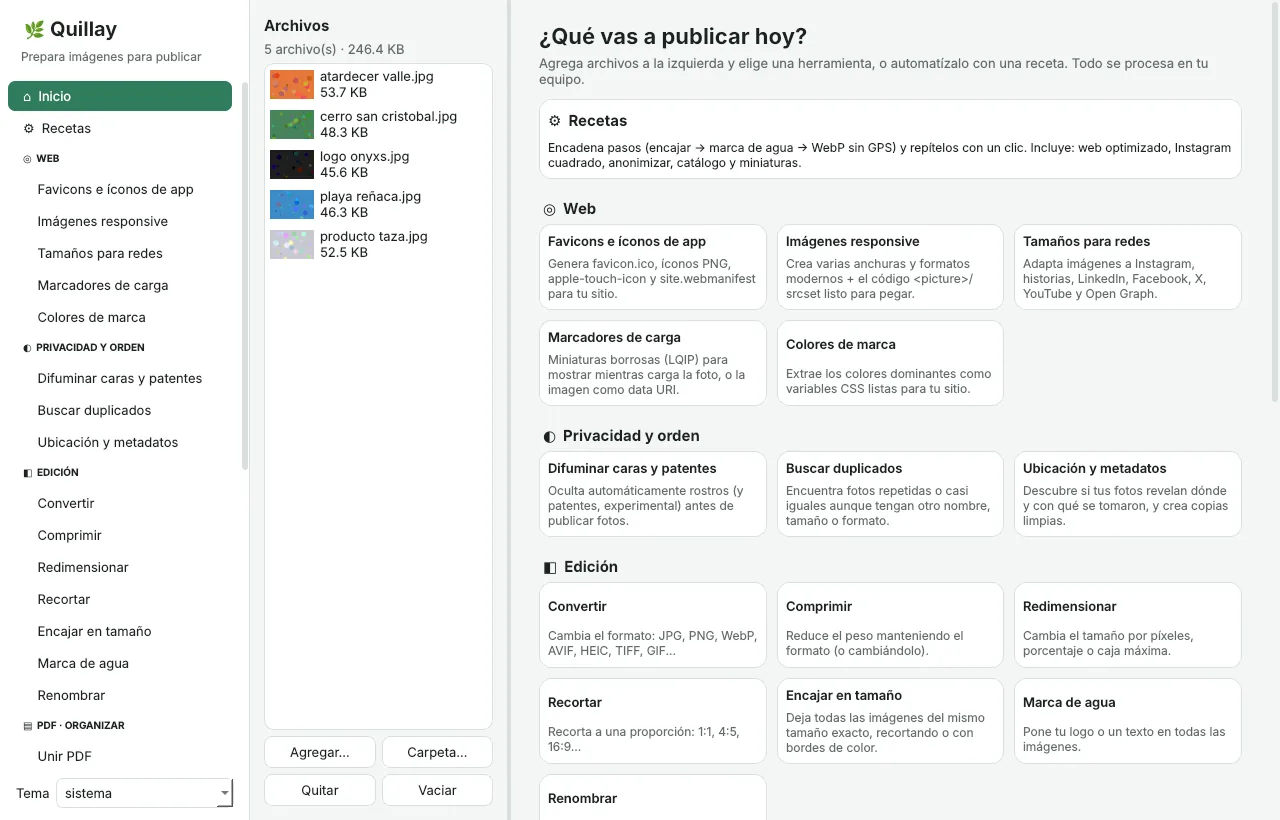
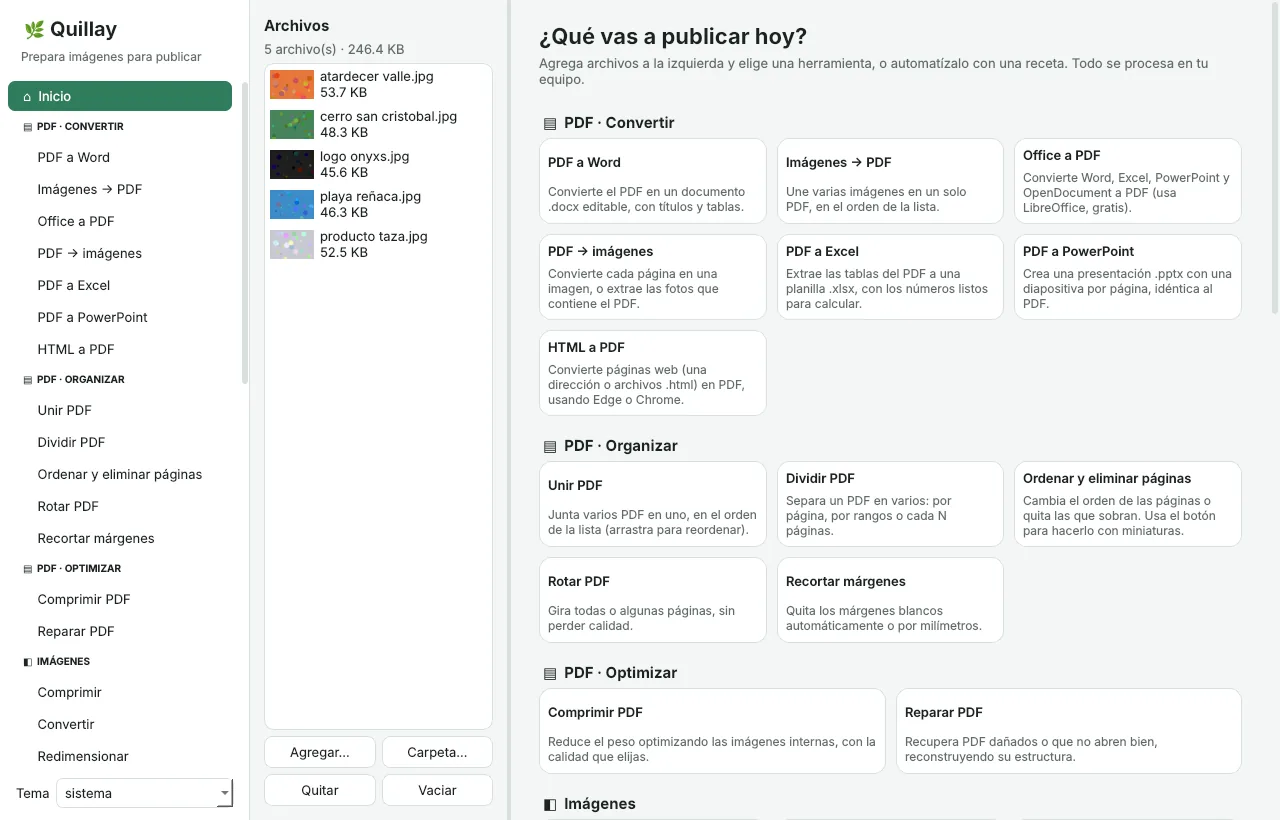
refactor(ui): ordeno el menú de lo más usado a lo menos usado, partiendo por PDF

diff --git a/src/quillay/gui/pages.py b/src/quillay/gui/pages.py
@@ -31,8 +31,9 @@ from quillay.core.params import ParamError
 from quillay.core.registry import STEPS, Context, Report, Tool, tools_by_category
 from quillay.gui.widgets import FileList, ParamForm, Worker
 
-ICONS = {"Edición": "◧", "Web": "◎", "Privacidad y orden": "◐", "PDF · Organizar": "▤", "PDF · Optimizar": "▤",
-         "PDF · Convertir": "▤", "PDF · Editar": "▤", "PDF · Revisar": "▤", "PDF · Seguridad": "▤"}
+ICONS = {"Imágenes": "◧", "Web y redes": "◎", "Privacidad y orden": "◐", "PDF · Convertir": "▤",
+         "PDF · Organizar": "▤", "PDF · Optimizar": "▤", "PDF · Editar": "▤", "PDF · Revisar": "▤",
+         "PDF · Seguridad": "▤"}
 
 
 def _title(text: str, sub: str) -> QWidget:
@@ -255,11 +256,23 @@ class HomePage(QWidget):
         lay.addWidget(_title("¿Qué vas a publicar hoy?",
                              "Agrega archivos a la izquierda y elige una herramienta, o automatízalo con una receta. "
                              "Todo se procesa en tu equipo."))
+        for category, tools in tools_by_category().items():
+            head = QLabel(f"{ICONS.get(category, '•')}  {category}")
+            head.setStyleSheet("font-weight: 700; font-size: 15px; margin-top: 14px;")
+            lay.addWidget(head)
+            grid = QGridLayout()
+            grid.setSpacing(10)
+            for i, tool in enumerate(tools):
+                grid.addWidget(self._card(tool), i // 3, i % 3)
+            lay.addLayout(grid)
+        recipes_head = QLabel("⚙  Automatizar")
+        recipes_head.setStyleSheet("font-weight: 700; font-size: 15px; margin-top: 14px;")
+        lay.addWidget(recipes_head)
         recipes_card = QPushButton()
         recipes_card.setObjectName("Card")
         recipes_card.setCursor(Qt.CursorShape.PointingHandCursor)
         rc = QVBoxLayout(recipes_card)
-        for text, style in (("⚙  Recetas", "font-weight: 700; font-size: 15px;"),
+        for text, style in (("⚙  Automatizar con recetas", "font-weight: 700; font-size: 15px;"),
                             ("Encadena pasos (encajar → marca de agua → WebP sin GPS) y repítelos con un clic. "
                              "Incluye: web optimizado, Instagram cuadrado, anonimizar, catálogo y miniaturas.",
                              "font-size: 12px;")):
@@ -271,15 +284,6 @@ class HomePage(QWidget):
         recipes_card.setMinimumHeight(80)
         recipes_card.clicked.connect(lambda: self.open_tool.emit("__recetas__"))
         lay.addWidget(recipes_card)
-        for category, tools in tools_by_category().items():
-            head = QLabel(f"{ICONS.get(category, '•')}  {category}")
-            head.setStyleSheet("font-weight: 700; font-size: 15px; margin-top: 14px;")
-            lay.addWidget(head)
-            grid = QGridLayout()
-            grid.setSpacing(10)
-            for i, tool in enumerate(tools):
-                grid.addWidget(self._card(tool), i // 3, i % 3)
-            lay.addLayout(grid)
         lay.addStretch(1)
         # Enlaces a GitHub: openExternalLinks hace que Qt abra el navegador al hacer clic.
         foot = QLabel(

diff --git a/src/quillay/core/registry.py b/src/quillay/core/registry.py
@@ -136,9 +136,33 @@ class Tool:
 TOOLS: dict[str, Tool] = {}
 
 # Orden de las categorías en la barra lateral y en ``quillay herramientas``.
+# Orden de la barra lateral, la pantalla de inicio y `quillay herramientas`:
+# de lo más usado a lo más específico. Para mover algo, basta con cambiar
+# su lugar en estas listas (no depende del orden en que se importan los módulos).
 CATEGORIES = (
-    "Web", "Privacidad y orden", "Edición",
-    "PDF · Organizar", "PDF · Optimizar", "PDF · Convertir", "PDF · Editar", "PDF · Revisar", "PDF · Seguridad",
+    "PDF · Convertir", "PDF · Organizar", "PDF · Optimizar", "Imágenes",
+    "PDF · Seguridad", "PDF · Editar", "Web y redes", "Privacidad y orden", "PDF · Revisar",
+)
+TOOL_ORDER = (
+    # PDF · Convertir
+    "pdf_a_word", "imagenes_a_pdf", "office_a_pdf", "pdf_a_imagenes", "pdf_a_excel", "pdf_a_powerpoint",
+    "html_a_pdf",
+    # PDF · Organizar
+    "unir_pdf", "dividir_pdf", "ordenar_pdf", "rotar_pdf", "recortar_pdf",
+    # PDF · Optimizar
+    "comprimir_pdf", "reparar_pdf",
+    # Imágenes
+    "comprimir", "convertir", "redimensionar", "recortar", "marca_agua", "encajar", "renombrar",
+    # PDF · Seguridad
+    "proteger_pdf", "firmar_pdf", "desbloquear_pdf", "censurar_pdf", "metadatos_pdf",
+    # PDF · Editar
+    "marca_agua_pdf", "numeros_pagina", "formularios_pdf",
+    # Web y redes
+    "redes_sociales", "favicons", "responsive", "paleta", "lqip",
+    # Privacidad y orden
+    "metadatos", "difuminar", "duplicados",
+    # PDF · Revisar
+    "comparar_pdf",
 )
 
 
@@ -196,6 +220,9 @@ def load_all() -> None:
 def tools_by_category() -> dict[str, list[Tool]]:
     load_all()
     grouped: dict[str, list[Tool]] = {c: [] for c in CATEGORIES}
-    for t in TOOLS.values():
+    # Las herramientas que no estén en TOOL_ORDER (por ejemplo, una recién agregada)
+    # quedan al final de su categoría, sin desaparecer.
+    rank = {tool_id: i for i, tool_id in enumerate(TOOL_ORDER)}
+    for t in sorted(TOOLS.values(), key=lambda t: rank.get(t.id, len(rank))):
         grouped.setdefault(t.category, []).append(t)
-    return grouped
+    return {c: tools for c, tools in grouped.items() if tools}

diff --git a/src/quillay/gui/app.py b/src/quillay/gui/app.py
@@ -73,17 +73,13 @@ class MainWindow(QMainWindow):
         home = HomePage()
         home.open_tool.connect(self.select)
         self._add_nav(HOME, "⌂  Inicio", home)
-        self._add_nav(RECIPES, "⚙  Recetas", RecipesPage(self.files))
         for category, tools in tools_by_category().items():
-            head = QListWidgetItem(f"{ICONS.get(category, '•')}  {category.upper()}")
-            head.setFlags(Qt.ItemFlag.NoItemFlags)  # encabezado: no seleccionable
-            font = head.font()
-            font.setPointSizeF(font.pointSizeF() * 0.85)
-            font.setBold(True)
-            head.setFont(font)
-            self.nav.addItem(head)
+            self._add_header(f"{ICONS.get(category, '•')}  {category.upper()}")
             for tool in tools:
                 self._add_nav(tool.id, "    " + tool.name, ToolPage(tool, self.files))
+        # Recetas al final: es lo más avanzado; quien solo quiere unir un PDF no lo necesita primero.
+        self._add_header("⚙  AUTOMATIZAR")
+        self._add_nav(RECIPES, "    Recetas", RecipesPage(self.files))
 
         split = QSplitter()
         split.addWidget(self.files)
@@ -101,6 +97,15 @@ class MainWindow(QMainWindow):
 
         QShortcut(QKeySequence.StandardKey.Open, self, activated=self.files._pick_files)
         self.select(HOME)
+
+    def _add_header(self, text: str) -> None:
+        head = QListWidgetItem(text)
+        head.setFlags(Qt.ItemFlag.NoItemFlags)  # encabezado: no seleccionable
+        font = head.font()
+        font.setPointSizeF(font.pointSizeF() * 0.85)
+        font.setBold(True)
+        head.setFont(font)
+        self.nav.addItem(head)
 
     def _add_nav(self, key: str, label: str, page: QWidget) -> None:
         self.pages[key] = self.stack.addWidget(page)

diff --git a/src/quillay/tools/basicas.py b/src/quillay/tools/basicas.py
@@ -28,7 +28,7 @@ from quillay.core.pipeline import (
 from quillay.core.registry import STEPS, Context, Report, tool
 from quillay.tools import pasos  # noqa: F401  (registra los pasos que envolvemos abajo)
 
-CAT = "Edición"
+CAT = "Imágenes"
 
 
 def _split(opts: dict, step_id: str) -> tuple[dict, dict]:
@@ -345,7 +345,7 @@ def _swatch(colors: list[tuple[str, float]], path: Path) -> None:
 
 @tool(
     "paleta", "Colores de marca",
-    "Extrae los colores dominantes como variables CSS listas para tu sitio.", "Web",
+    "Extrae los colores dominantes como variables CSS listas para tu sitio.", "Web y redes",
     (
         Param("colores", "Cantidad de colores", "int", 6, min=2, max=16),
         Param("guardar_muestra", "Guardar muestra PNG", "bool", True),

diff --git a/tests/test_tools.py b/tests/test_tools.py
@@ -178,3 +178,13 @@ def test_parametro_invalido(photo, out):
         run("convertir", [photo], out, calidad=500)
     with pytest.raises(ParamError):
         run("convertir", [photo], out, formato="psd")
+
+
+def test_orden_del_menu_incluye_todas_las_herramientas():
+    """Si alguien agrega una herramienta, debe ubicarla en TOOL_ORDER (y una sola vez)."""
+    from quillay.core.registry import CATEGORIES, TOOL_ORDER, tools_by_category
+
+    assert sorted(TOOL_ORDER) == sorted(TOOLS)
+    grouped = tools_by_category()
+    assert list(grouped) == [c for c in CATEGORIES if c in grouped]
+    assert [t.id for t in grouped["PDF · Convertir"]][0] == "pdf_a_word"

diff --git a/src/quillay/tools/web.py b/src/quillay/tools/web.py
@@ -15,7 +15,7 @@ from quillay.core.params import Param, color_to_rgba
 from quillay.core.registry import Context, Report, tool
 from quillay.tools.pasos import encajar
 
-CAT = "Web"
+CAT = "Web y redes"
 
 
 def _slug(text: str) -> str:

diff --git a/README.md b/README.md
@@ -40,25 +40,16 @@ Quillay automatiza lo que haces antes de subir una foto a tu sitio o a redes: la
 
 | Categoría | Herramienta | Qué hace |
 |---|---|---|
-| **Automatizar** | Recetas | Cadenas de pasos en YAML: 5 incluidas, editor en la ventana y `quillay receta correr`. |
-| **Web** | Favicons e íconos de app | `favicon.ico`, PNG, `apple-touch-icon`, ícono *maskable*, `site.webmanifest` y el `<head>` listo. |
-| | Imágenes responsive | Varias anchuras × AVIF/WebP/JPG + el código `<picture>` con `width`/`height` (evita CLS). |
-| | Tamaños para redes | Instagram, historias/Reels/Estados, LinkedIn, Facebook, X, YouTube y Open Graph. |
-| | Colores de marca | Colores dominantes como variables CSS, con muestra PNG y valores RGB/HSL. |
-| | Marcadores de carga | Miniaturas borrosas (LQIP) o la imagen como *data URI*, en JSON y CSS. |
-| **Privacidad y orden** | Ubicación y metadatos | Indica qué fotos tienen **GPS**, cámara y fecha; crea copias limpias sin recomprimir los JPG. |
-| | Difuminar caras y patentes | Detecta rostros y los oculta con desenfoque, pixelado o caja negra. |
-| | Buscar duplicados | Encuentra fotos repetidas aunque cambien de nombre, tamaño o formato. Nunca borra: copia o mueve. |
-| **Edición** | Convertir · Comprimir | JPG, PNG, WebP, AVIF, HEIC, TIFF, BMP y GIF; PNG a 256 colores y ancho máximo, con el ahorro total. |
-| | Redimensionar · Recortar · Encajar | Por caja, ancho, alto o porcentaje; a proporción (1:1, 4:5, 9:16…); o a un tamaño exacto con bordes. |
-| | Marca de agua | Tu logo PNG o un texto en cualquiera de 9 ubicaciones, con transparencia ajustable. |
-| | Renombrar | Patrones con `{nombre}` `{n}` `{fecha}` `{ancho}` `{alto}`, con vista previa. |
+| **PDF · Convertir** | PDF → Word · Imágenes → PDF · Office → PDF · PDF → imágenes · PDF → Excel · PDF → PowerPoint · HTML → PDF | Word con títulos y tablas; Excel con números en formato chileno; Office y web usan LibreOffice, Edge o Chrome si los tienes. |
 | **PDF · Organizar** | Unir · Dividir · Ordenar y eliminar páginas · Rotar · Recortar márgenes | Ordena arrastrando miniaturas; divide por página, rangos o cada N; recorte automático del blanco. |
 | **PDF · Optimizar** | Comprimir · Reparar | Tres niveles de compresión de las imágenes internas; reconstruye PDF dañados. |
-| **PDF · Convertir** | Imágenes ↔ PDF · PDF → Word, PowerPoint y Excel · Office → PDF · HTML → PDF | Word con títulos y tablas; Excel con números en formato chileno; Office y web usan LibreOffice, Edge o Chrome si los tienes. |
-| **PDF · Editar** | Números de página · Marca de agua · Formularios | «Página 3 de 10»; marca en mosaico; rellena un formulario por cada fila de un Excel o CSV. |
+| **Imágenes** | Comprimir · Convertir · Redimensionar · Recortar · Marca de agua · Encajar · Renombrar | JPG, PNG, WebP, AVIF, HEIC y más; ahorro total visible; renombrado con vista previa. |
+| **PDF · Seguridad** | Proteger · Firmar · Desbloquear · Censurar · Propiedades | AES-256; firma visual y digital con certificado `.p12`/`.pfx`; censura real de RUT, correos, teléfonos y patentes. |
+| **PDF · Editar** | Marca de agua · Números de página · Formularios | Marca en mosaico; «Página 3 de 10»; rellena un formulario por cada fila de un Excel o CSV. |
+| **Web y redes** | Tamaños para redes · Favicons · Imágenes responsive · Colores de marca · Marcadores de carga | Instagram, historias, LinkedIn, YouTube; el `<head>` y el `<picture>` listos para pegar. |
+| **Privacidad y orden** | Ubicación y metadatos · Difuminar caras · Buscar duplicados | Detecta fotos con GPS; oculta rostros; encuentra repetidas sin borrar nada. |
 | **PDF · Revisar** | Comparar PDF | Informe de diferencias de texto y páginas lado a lado con los cambios en rojo. |
-| **PDF · Seguridad** | Proteger · Desbloquear · Propiedades · Firmar · Censurar | AES-256; firma visual y digital con certificado `.p12`/`.pfx`; censura real de RUT, correos, teléfonos y patentes. |
+| **Automatizar** | Recetas | Cadenas de pasos en YAML: 5 incluidas, editor en la ventana y `quillay receta correr`. |
 
 <table>
   <tr>

diff --git a/CHANGELOG.md b/CHANGELOG.md
@@ -2,6 +2,13 @@
 
 Formato basado en [Keep a Changelog](https://keepachangelog.com/es-ES/1.1.0/); versiones según [SemVer](https://semver.org/lang/es/).
 
+## [Sin publicar]
+
+### Cambiado
+- Menú, pantalla de inicio y `quillay herramientas` ordenados de lo más usado a lo más específico: primero convertir, organizar y comprimir PDF; Recetas pasa al final, en «Automatizar».
+- El orden vive en una sola lista (`TOOL_ORDER` en `core/registry.py`) en vez de depender del orden de importación.
+- Las categorías «Edición» y «Web» se llaman ahora «Imágenes» y «Web y redes».
+
 ## [0.3.0] — 2026-11-04
 
 Segunda etapa del módulo PDF: Quillay llega a 38 herramientas.
